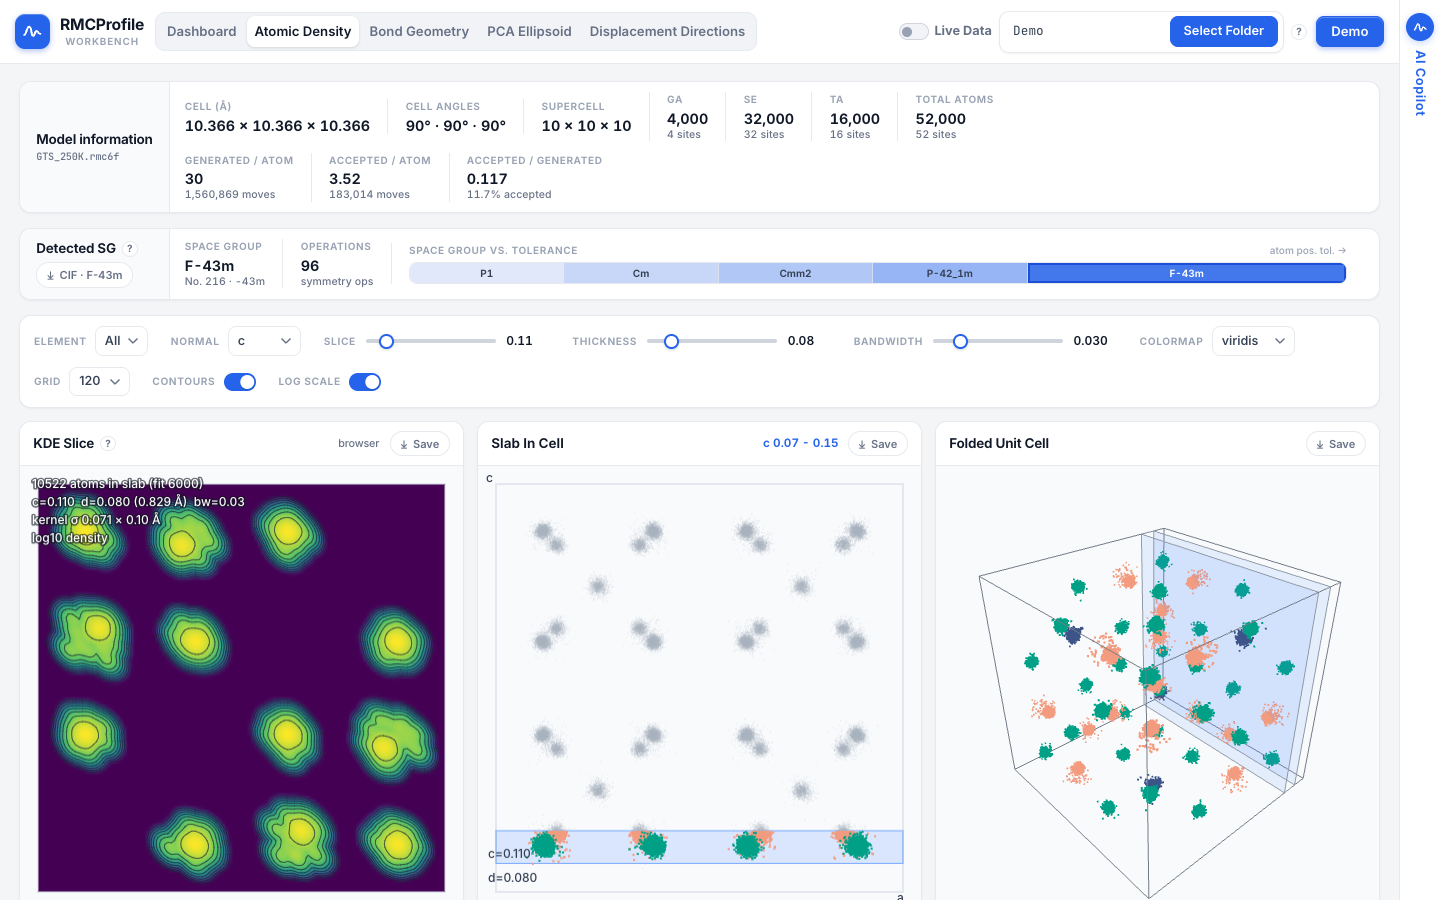
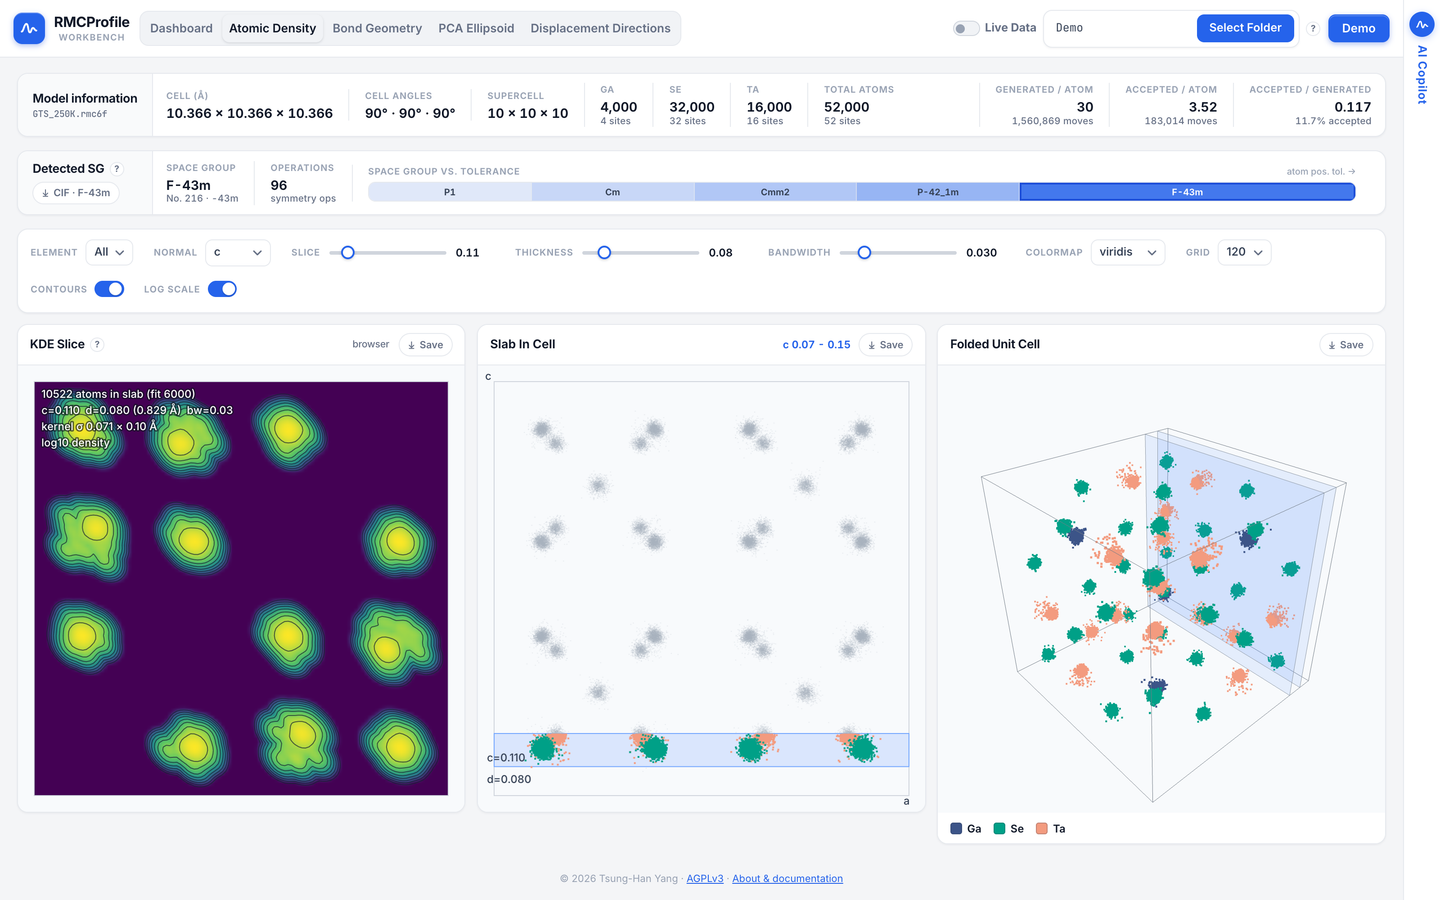
docs: new README screenshots
Replace the Dashboard, Atomic Density, Bond Geometry, PCA Ellipsoid and
Displacement Directions screenshots with a newer set from the public Demo
run (1440x900 lossless WebP, as before). The PCA and Displacement
Directions shots now show Ta site #1; headings and alt texts follow.

diff --git a/README.md b/README.md
@@ -59,15 +59,15 @@ All from the bundled public Demo run.
   </tr>
   <tr>
     <td width="50%"><img src="assets/workbench-bond-geometry.webp" alt="Bond Geometry: the Se–Ta–Se angle distribution with a range selected, and its bonds and wedges in the 3D cell" width="100%"></td>
-    <td width="50%"><img src="assets/workbench-atomic-density.webp" alt="Atomic Density" width="100%"></td>
+    <td width="50%"><img src="assets/workbench-atomic-density.webp" alt="Atomic Density: the KDE slice, the slab in the cell and the folded unit cell" width="100%"></td>
   </tr>
   <tr>
-    <th width="50%">PCA Ellipsoid: a Se site's ellipsoid and isosurface</th>
-    <th width="50%">Displacement Directions: a Se site's direction sphere</th>
+    <th width="50%">PCA Ellipsoid: a Ta site's ellipsoid and its three projections</th>
+    <th width="50%">Displacement Directions: a Ta site's direction sphere</th>
   </tr>
   <tr>
-    <td width="50%"><img src="assets/workbench-pca-ellipsoid.webp" alt="PCA Ellipsoid" width="100%"></td>
-    <td width="50%"><img src="assets/workbench-displacement-directions.webp" alt="Displacement Directions" width="100%"></td>
+    <td width="50%"><img src="assets/workbench-pca-ellipsoid.webp" alt="PCA Ellipsoid: Ta site #1 with the 50% ellipsoid, its wireframe and the three projections, beside the site ellipsoids in the cell" width="100%"></td>
+    <td width="50%"><img src="assets/workbench-displacement-directions.webp" alt="Displacement Directions: the direction sphere of Ta site #1 with its three axis views, beside the site ellipsoids in the cell" width="100%"></td>
   </tr>
   <tr>
     <th width="50%">The Copilot asks before it changes an input</th>
